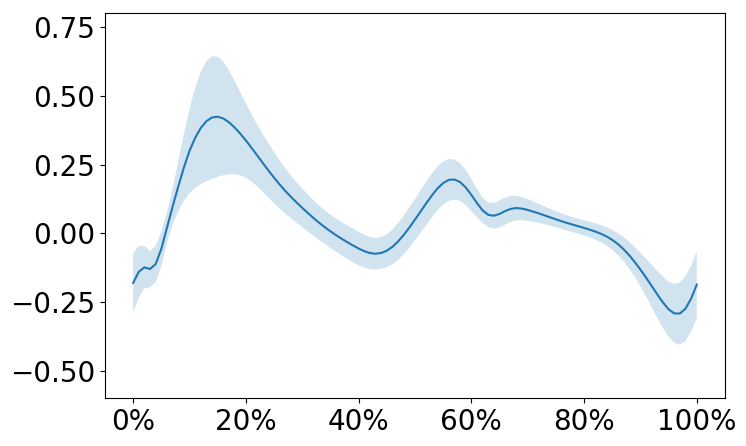
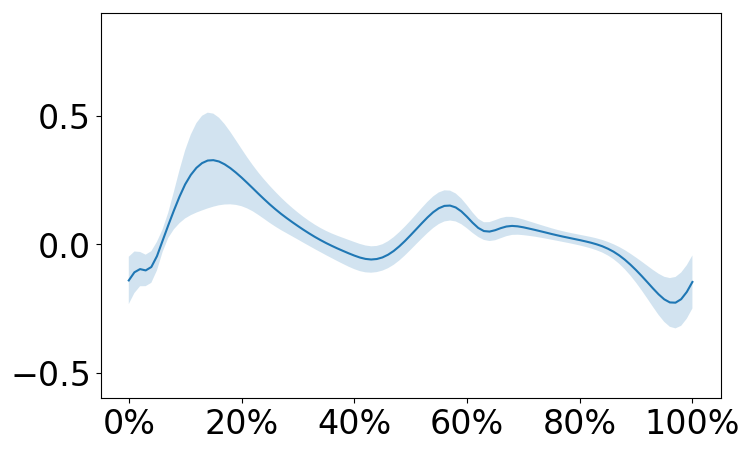
Update on Overleaf.

Changed region(s): [[0.0, 0.0291, 0.9866, 0.9619]]

diff --git a/chapters/4-results.tex b/chapters/4-results.tex
@@ -4,36 +4,37 @@
 
 \chapter{Results}
 \label{sec:results}
-The results can be split into two parts: (1) \textit{pre-training} which includes the experimental data after filtering and pre-processing and before the training of the \ac{NN}; and (2) \textit{post-training} which includes the output from the trained \ac{NN} model, including training and performance statistics.
+The results can be split into two parts: (1) \textit{pre-training} which includes the experimental data after filtering and pre-processing and before the training of the \ac{NN}; and (2) \textit{post-training} which includes the output from the trained \ac{NN} model, including training and performance evaluation.
 
 \section{Pre-training results}
 \label{sec:results_pre-training-results}
 Before training the \ac{NN} it is useful to examine what the data looks like.
-Figure \ref{fig:kjm-average} shows a representation of the \ac{KJM} from all the gait cycles for subjects 1, 2 and 6. 
+Figure \ref{fig:kjm-average} shows a representation of the \ac{KJM} from all the gait cycles for subjects 1, 2 and 6.
+Same plots can be found for subject 3 and 5 in the appendix \ref{sec:appendix}. 
 Figure \ref{fig:emg-average} shows the corresponding \ac{EMG} activity of each muscle, grouped by the muscle's main function as per table \ref{tab:muscle-names}.
-\begin{figure}
+\begin{figure}[ht!]
      \centering
-     \begin{subfigure}[b]{0.325\textwidth}
+     \begin{subfigure}[b]{0.328\textwidth}
          \centering
-         \includegraphics[width=\textwidth]{img/results/moment_avg/subject01_all_set1_moment_avg.png}
+         \includegraphics[width=\textwidth]{img/results/moment_avg/subject01_all_set1_moment_avg_w_minmax.png}
      \end{subfigure}
      \hfill
-     \begin{subfigure}[b]{0.325\textwidth}
+     \begin{subfigure}[b]{0.328\textwidth}
          \centering
-         \includegraphics[width=\textwidth]{img/results/moment_avg/subject02_all_set1_moment_avg.png}
+         \includegraphics[width=\textwidth]{img/results/moment_avg/subject02_all_set1_moment_avg_w_minmax.png}
      \end{subfigure}
      \hfill
-     \begin{subfigure}[b]{0.325\textwidth}
+     \begin{subfigure}[b]{0.328\textwidth}
          \centering
-         \includegraphics[width=\textwidth]{img/results/moment_avg/subject06_all_set1_moment_avg.png}
+         \includegraphics[width=\textwidth]{img/results/moment_avg/subject06_all_set1_moment_avg_w_minmax.png}
      \end{subfigure}
-    \caption{Normalized \ac{KJM} for subjects 1, 2, and 6, from left to right respectively. The solid blue line is the average from all the gait cycles and the shaded area around it is the standard deviation.}
+    \caption{Normalized \ac{KJM} for subjects 1, 2, and 6, from left to right respectively. The x-axis is the percentage of a single gait cycle. The solid blue line is the average from all the gait cycles and the shaded area around it is the standard deviation.}
     \label{fig:kjm-average}
 \end{figure}
-\begin{figure}
+\begin{figure}[ht!]
     \centering
     \includegraphics[width=\textwidth]{img/results/emg_avg/all_subject_grid_emg_avg.png}
-    \caption{Filtered and normalized \ac{EMG} from subjects 1, 2, and 6.}
+    \caption{Filtered and normalized \ac{EMG} from subjects 1, 2, and 6. The x-axis is the percentage of a single gait cycle. The solid blue lines represent the average from all the gait cycles for each muscle and the shaded area with corresponding color is the standard deviation.}
     \label{fig:emg-average}
 \end{figure}
 % \begin{figure}
@@ -43,7 +44,18 @@ Figure \ref{fig:emg-average} shows the corresponding \ac{EMG} activity of each m
 %     \label{fig:knee-joint-moments-stat}
 % \end{figure}
 The figures show the subjects have similar patterns for \acp{KJM} and \ac{EMG} signals over the gait cycles.
-Nevertheless, there are also some clear dissimilarities between them which are discussed further in chapter \ref{sec:discussion}.
+Note that the pattern for subject 1 is not as clear as for subjects 2 and 6 when looking at it on the same scale.
+However, as indicated by the ``fastest'' and ``slowest'' cycles, it is because subject 1 generally walked slower, in most trials, compared to their maximum speed.
+The similarities in the patterns indicates that an \ac{NN} might be able to generalize between subjects, at least up to some degree.
+Nevertheless, there are also some dissimilarities between the signals which are discussed further in chapter \ref{sec:discussion}.
+
+Another notable observation is the amplitude of the normalized \ac{EMG}.
+It indicates that most of the values have below $0.5$ amplitude.
+This suggests that the normalization method might not be adequate.
+The discrepancy between the signals from gluteus maximus (GlutMax) may suggest the same. 
+This is further discussed in section \ref{sec:discussion}.
+
+Figures x - x show the mixed datasets from cases 1-5 as described in the methods section.
 
 \section{Post-training results}
 \label{sec:post-training-results}

diff --git a/chapters/3-methods.tex b/chapters/3-methods.tex
@@ -119,23 +119,23 @@ Five different cases of training and testing sets were created to look at the ab
     \item Training set: \textit{Subject06/Session1}\\
             Testing set: \textit{Subject06/Session2}\\
             Looking at the ability to generalize across sessions.
-    \item Training set: \textit{Subject01/Both, Subject02/Both, and Subject06/Session1}\\
+    \item Training set: \textit{Subject01/Both, Subject02/Both,} and \textit{Subject06/Session1}\\
             Testing set: \textit{Subject06/Session2}\\
             Evaluating if additional data from different subjects improves the performance from case 1.
-    \item Training set: \textit{Subject01/Both and Subject06/Both}\\
-            Testing set: \textit{Subject02/Both, Subject03, and Subject05}\\
+    \item Training set: \textit{Subject01/Both} and \textit{Subject06/Both}\\
+            Testing set: \textit{Subject02/Both, Subject03,} and \textit{Subject05}\\
             Looking at the ability to generalize across subjects.
-    \item Training set: \textit{Subject02/Both and Subject06/Both}\\
-            Testing set: \textit{Subject01/Both, Subject03, and Subject05}\\
+    \item Training set: \textit{Subject02/Both} and \textit{Subject06/Both}\\
+            Testing set: \textit{Subject01/Both, Subject03,} and \textit{Subject05}\\
             Evaluating if this compares to case 3, i.e. how sensitive is the model to which subjects it trains on.
-    \item Training set: \textit{Random 70\% of all the usable data}\\
+    \item Training set: \textit{Random 80\% of all the usable data}\\
             Testing set: \textit{Random 20\% of all the usable data} (different data than the training set)\\
             Performance indicates if the same model can be used for multiple subjects as long as they have similar parameter as the subjects that the model trained on.
-            
 \end{enumerate}
-The split was done by randomly selecting $80\%$ of the gait cycles, from each group of slow, fast, and regular walking speeds, for the training set.
-The remaining $20\%$ from each group was the testing set.
-Further $10\%$ of cycles in the training set were randomly selected for the validation set.
+In all the case, the validation set was selected as random $10\%$ of the training set.
+% The split was done by randomly selecting $80\%$ of the gait cycles, from each group of slow, fast, and regular walking speeds, for the training set.
+% The remaining $20\%$ from each group was the testing set.
+% Further $10\%$ of cycles in the training set were randomly selected for the validation set.
 
 For the purpose of standardizing the data between subjects, the datasets were normalized.
 \ac{EMG} was normalized so that all values from the training dataset were between $0$ and $1$, independent of subject.
@@ -149,7 +149,7 @@ The normalization is given by equation \ref{eq:emg-normalization}:
 %     X_{norm} = \frac{X - \mu_X}{\sigma_X}
 % \end{equation}
 where $X$ is the \ac{EMG} value to be normalized and $X_{min}$ and $X_{max}$ are, respectively, the minimum and maximum measured \ac{EMG} from the training dataset. 
-For the validation and testing datasets, the same minimum and maximum values were used, to accurately portray new data that the \ac{NN} does not already ``know''.
+% For the validation and testing datasets, the same minimum and maximum values were used, to accurately portray new data that the \ac{NN} does not already ``know''.
 The \acp{KJM} were normalized similar to the \ac{EMG} in equation \ref{eq:emg-normalization} with addition clause to set the interval:
 \begin{equation}
 \label{eq:moment-normalization}
@@ -202,7 +202,5 @@ The trained model could then be transferred to C++ by using Tensorflow C++ libra
 This can be helpful since in an exoskeleton the trained model needs to be stored on an embedded system which often runs C++ rather than Python.
 Also, Vicon offers a Datastream SDK in C++ enabling real time computation that can be used with Vicon Nexus.
 This is further discussed in section \ref{sec:discussion}.
-
-
 
 \end{document}

diff --git a/tables/lstm-parameters.tex b/tables/lstm-parameters.tex
@@ -2,10 +2,11 @@
 \begin{table}[ht!]
     \centering
     \caption{\ac{LSTM} parameter values used in the Keras API function.}
-    \begin{tabular}{>{\raggedright}p{0.15\textwidth} | c | p{0.6\textwidth}}
-        Parameter           & Value         & Function \\ \hline
-        Units               & 64            & The number of hidden units in the internal layers\\
-        Activation function & Hard-Sigmoid  & Determines if a node is \textit{activated}\\
+    \begin{tabular}{>{\raggedright}p{0.15\textwidth} | c | p{0.5\textwidth}}
+        Parameter                       & Value         & Function \\ \hline
+        Units                           & 64            & The number of hidden units in the internal layers\\
+        Activation function             & Hard-Sigmoid  & The node's activation function of the \ac{LSTM} gate's \ac{NN} layers\\
+        Recurrent activation function   & ReLu          & The node's activation function for the \ac{LSTM} state recurrence \ac{NN} layer.
     \end{tabular}
     \label{tab:lstm-parameters}
 \end{table}

diff --git a/chapters/appendices.tex b/chapters/appendices.tex
@@ -1,6 +1,7 @@
 \input{chapters/state-of-the-art}
 
 \chapter{Additional material}
+\label{sec:appendix}
 
 %\input{tables/muscle-names.tex}
 
